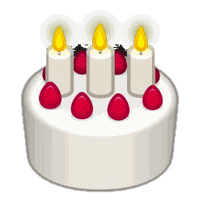
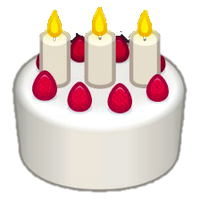
Cleaner Cake artwork
Recut without the candle glow (it looked like grey smudges on light
backgrounds), with the background between the candles removed and saved
without a palette so the edges and the cake body stay smooth. The cutout
script gains --noglow and --rgba.

Claude-Session: https://claude.ai/code/session_01BTXemNnmoYXsJt3GJZukzD

diff --git a/scripts/cutout-gift.py b/scripts/cutout-gift.py
@@ -6,10 +6,12 @@
 --glow — для подарунків із сяйвом (свічки торта): сяйво стає напівпрозорим.
 --precise — прибирати лише пікселі саме кольору фону (для сірих подарунків: кільце).
 --holes — прибрати й замкнений фон усередині предмета (дірка кільця).
+--noglow — прибрати сяйво навколо полум'я (торт) замість напівпрозорого.
+--rgba — зберегти без палітри (трохи більший файл, чистіші напівпрозорі краї).
 Потрібен Pillow (pip install pillow) — лише для розробки, не для бота."""
 import sys
 from collections import deque
-from PIL import Image, ImageFilter
+from PIL import Image, ImageFilter, ImageChops
 
 SIZE = 200
 
@@ -74,6 +76,34 @@ def cutout(src, dst):
     # М'який край замість «драбинки».
     mask = mask.filter(ImageFilter.MinFilter(3)).filter(ImageFilter.GaussianBlur(1.1))
     im.putalpha(mask)
+    if NOGLOW:
+        # Сяйво навколо полум'я просто прибираємо: на світлому тлі напівпрозоре
+        # сяйво виглядає брудною плямою, а полум'я й без нього яскраве.
+        px2 = im.load()
+        for y in range(h):
+            for x in range(w):
+                r, g, b, a0 = px2[x, y]
+                if a0 and max(r, g, b) < 185 and r >= g * 0.8 and g > b * 1.3 and b < 120 and not (r > 150 and g < 90):
+                    px2[x, y] = (0, 0, 0, 0)
+        # Після цього по краях лишаються поодинокі темні пікселі — прибрати й їх.
+        a_ch = im.getchannel('A').filter(ImageFilter.MinFilter(3)).filter(ImageFilter.MaxFilter(3))
+        im.putalpha(Image.eval(ImageChops.multiply(im.getchannel('A'), a_ch), lambda v: v))
+        # Темні сірі шматочки фону (шум JPEG), що торкаються прозорого, — теж геть.
+        # Полуниці темно-червоні (кольорові), тож їх це не зачіпає.
+        for _ in range(4):
+            px2 = im.load()
+            kill = []
+            for y in range(1, h - 1):
+                for x in range(1, w - 1):
+                    r, g, b, a0 = px2[x, y]
+                    if a0 and max(r, g, b) < 80 and max(r, g, b) - min(r, g, b) < 32 and \
+                            min(px2[x + 1, y][3], px2[x - 1, y][3], px2[x, y + 1][3], px2[x, y - 1][3]) < 128:
+                        kill.append((x, y))
+            for x, y in kill:
+                px2[x, y] = (0, 0, 0, 0)
+            if not kill:
+                break
+        mask = im.getchannel('A')
     if GLOW:
         # Сяйво (полум'я свічок) на темному тлі — «віднімаємо» тло: темно-жовті
         # пікселі стають напівпрозорим жовтим замість брудно-оливкового.
@@ -102,13 +132,18 @@ def cutout(src, dst):
     canvas.paste(im, ((side - cw) // 2, (side - ch) // 2), im)
     canvas = canvas.resize((SIZE, SIZE), Image.LANCZOS)
     # Палітра на 256 кольорів — у кілька разів менший файл, прозорість зберігається.
-    small = canvas.quantize(colors=256, method=Image.Quantize.FASTOCTREE)
-    small.save(dst, optimize=True)
+    if RGBA:
+        canvas.save(dst, optimize=True)          # без палітри — чисті напівпрозорі краї
+    else:
+        small = canvas.quantize(colors=256, method=Image.Quantize.FASTOCTREE)
+        small.save(dst, optimize=True)
 
 
-GLOW = False
+GLOW = NOGLOW = RGBA = False
 if __name__ == '__main__':
     GLOW = '--glow' in sys.argv
+    NOGLOW = '--noglow' in sys.argv
+    RGBA = '--rgba' in sys.argv
     PRECISE = '--precise' in sys.argv
     HOLES = '--holes' in sys.argv
     cutout(sys.argv[1], sys.argv[2])
